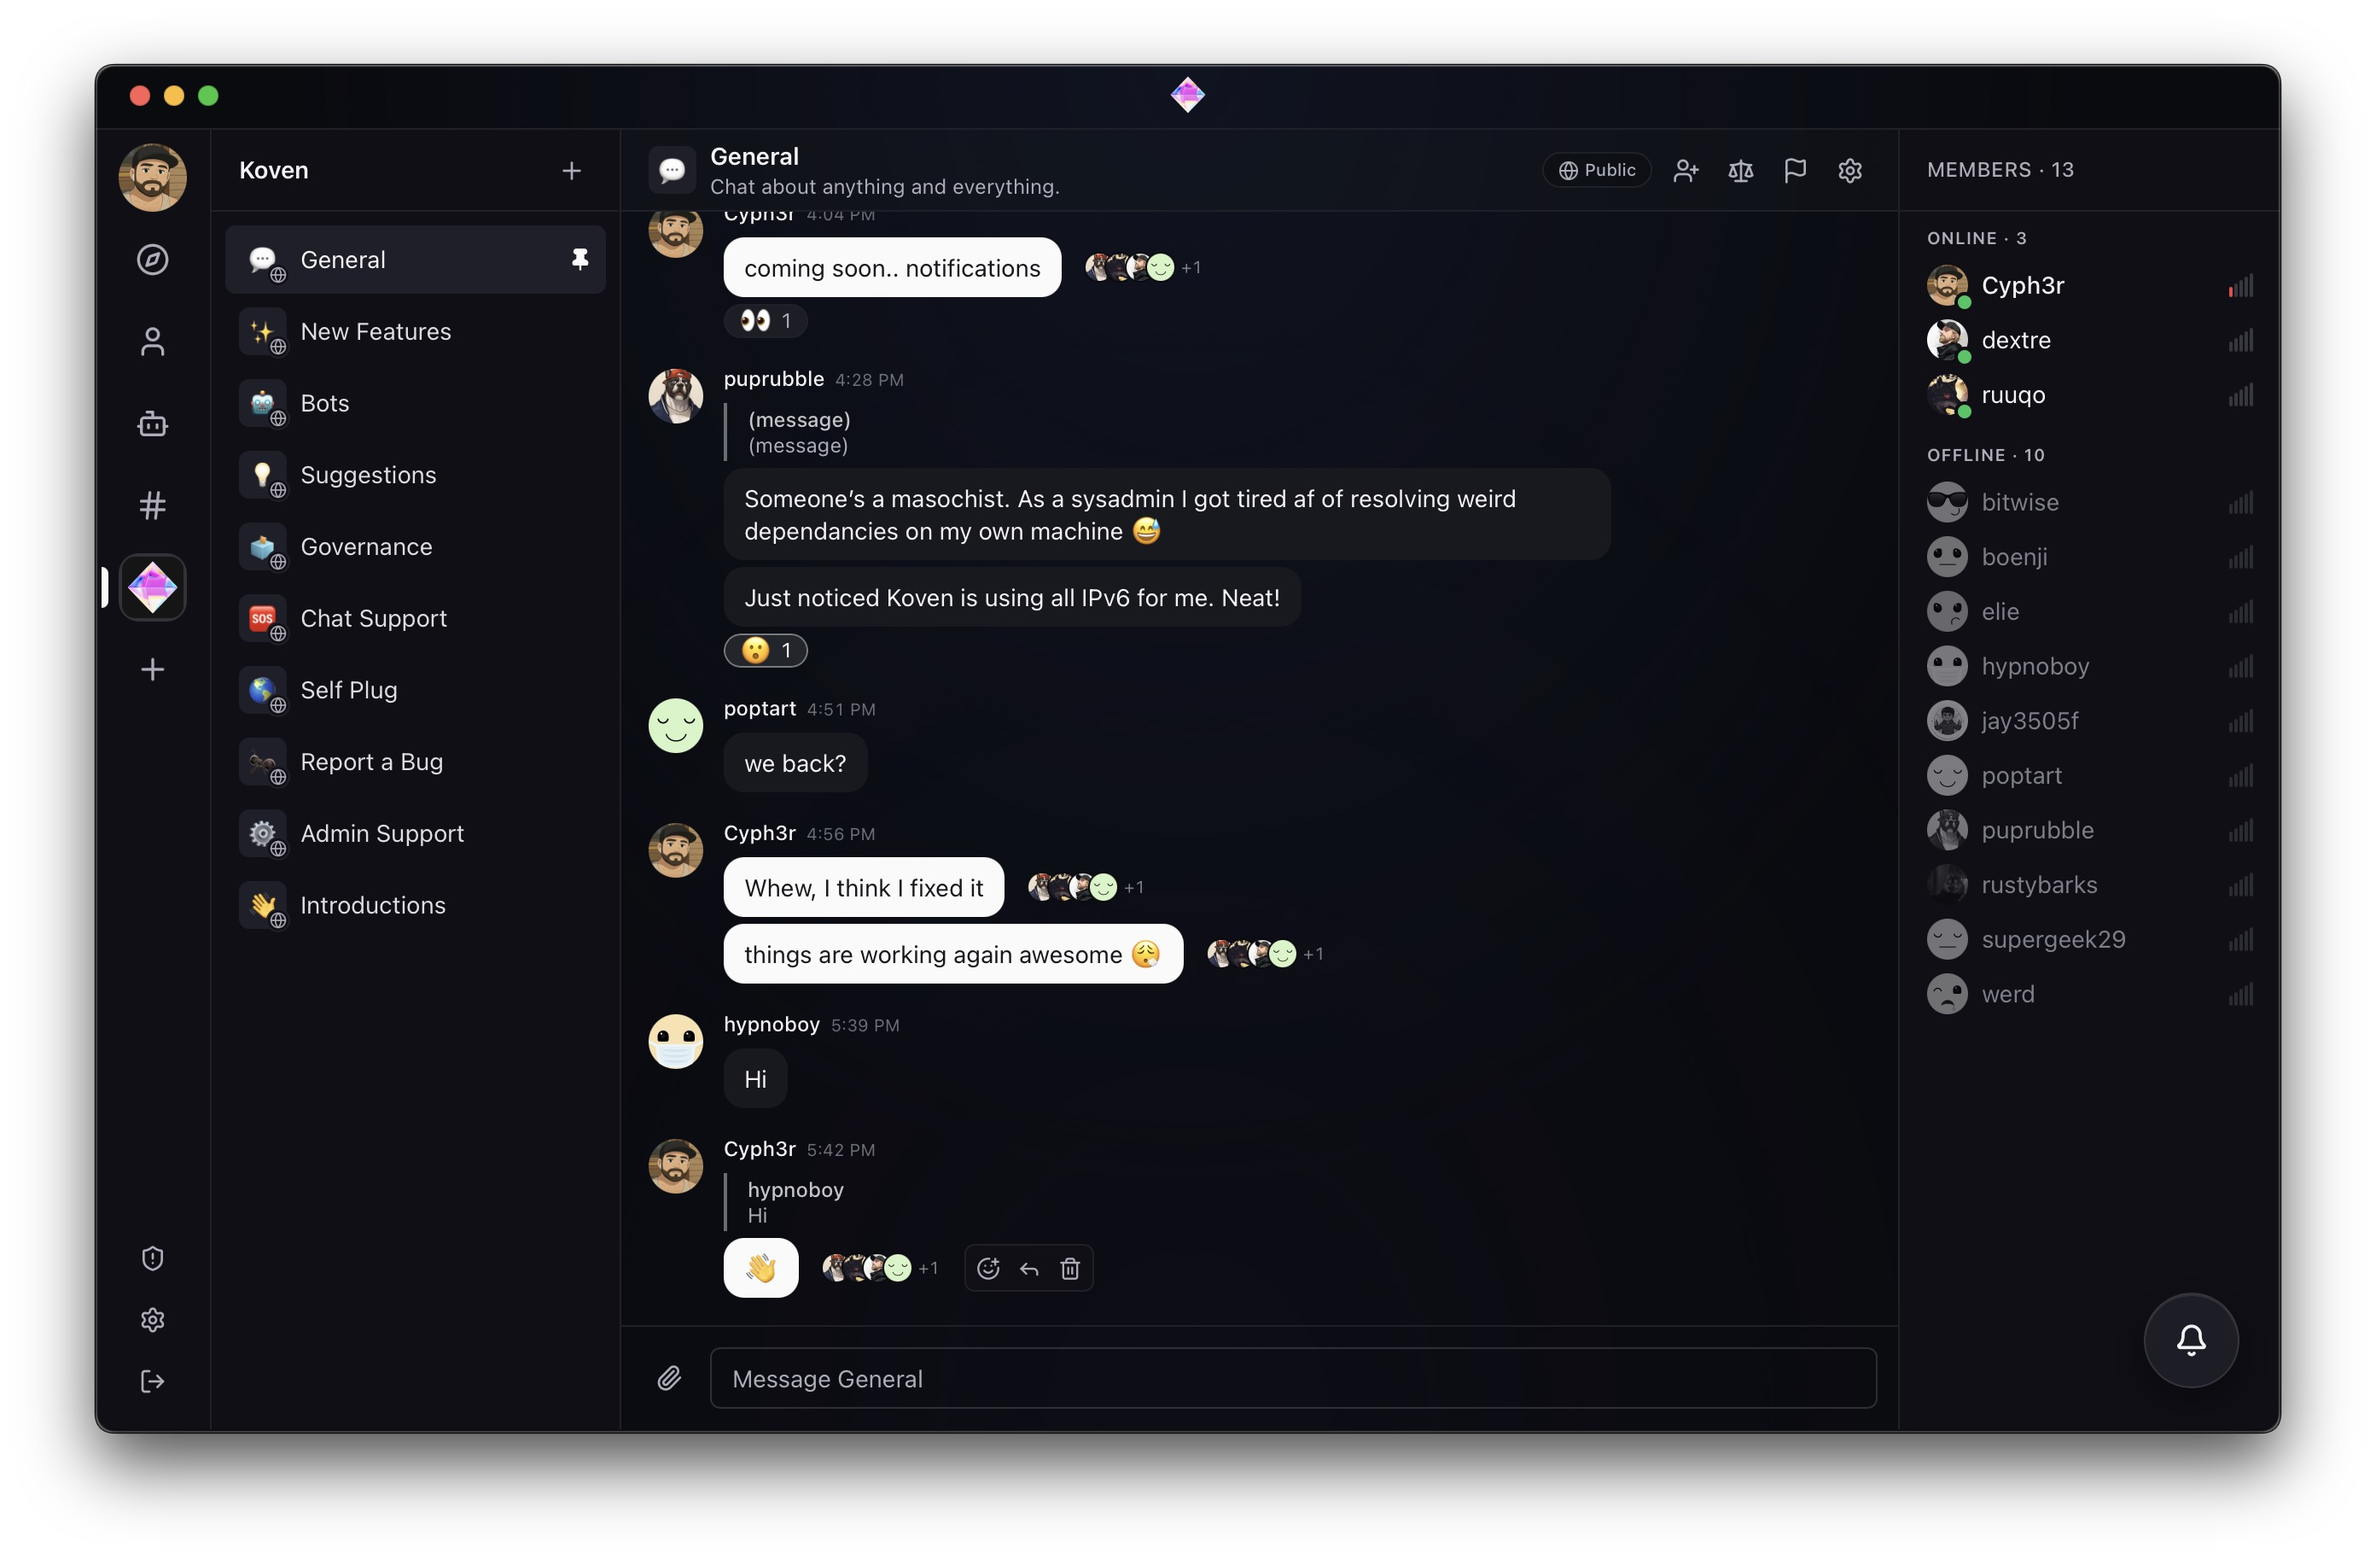
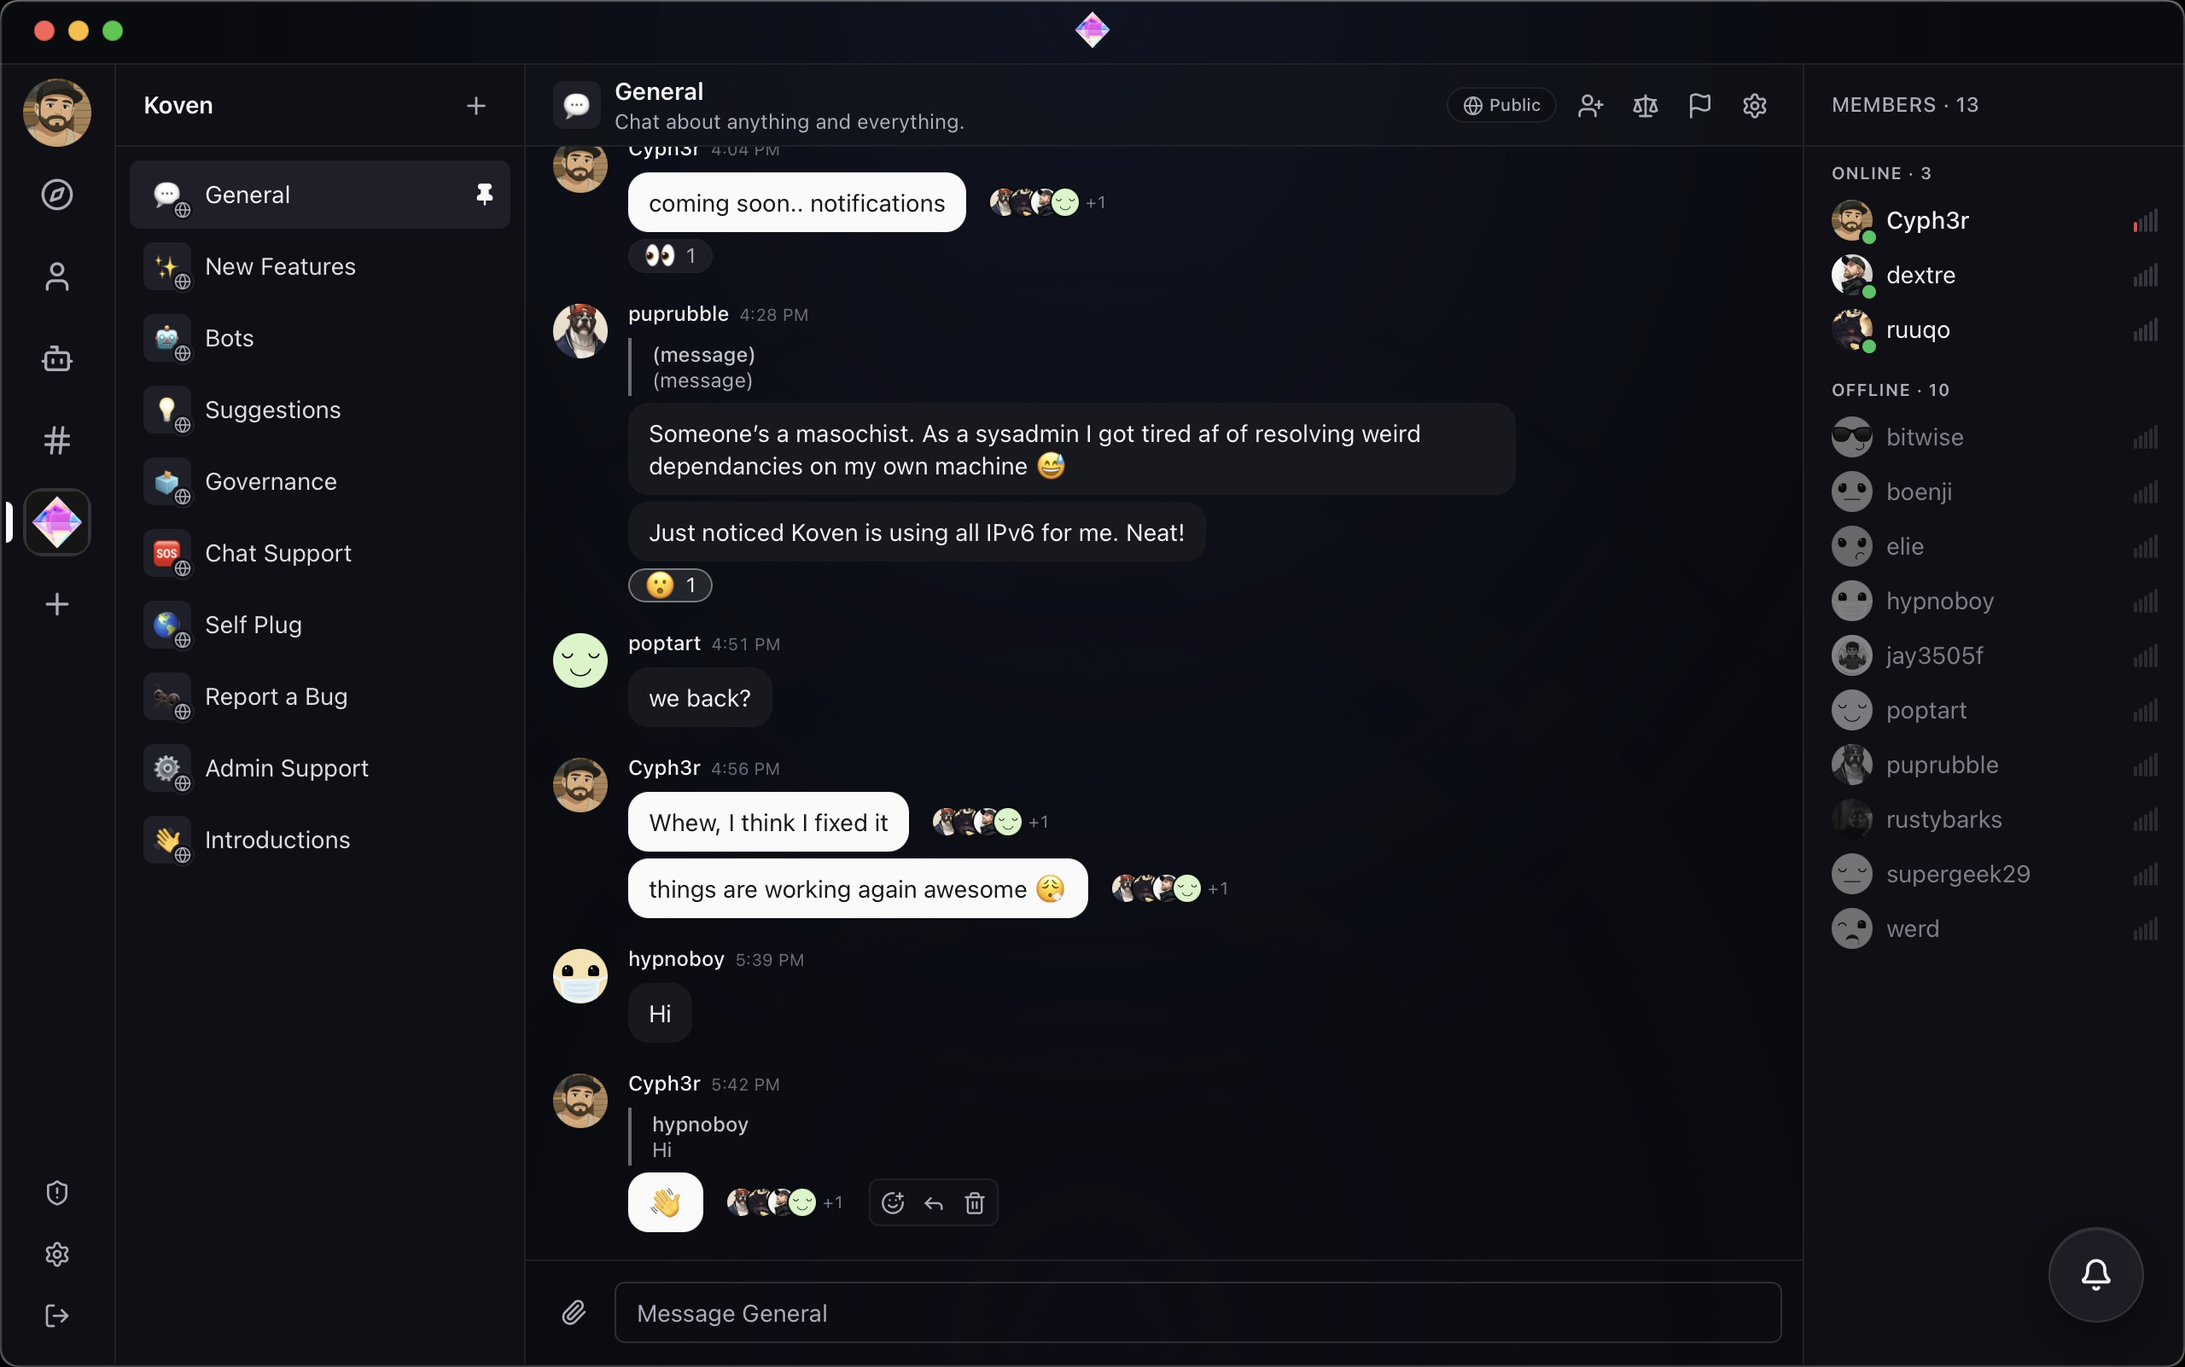
Admin debug endpoint to test the stored Giphy API key
GET /api/instance/giphy-test (admin only) hits Giphy's trending
endpoint with the stored key, returns the upstream status + body +
masked key preview + length so we can debug 401s without grepping
engine logs.

Changed region(s): [[0.0, 0.0, 1.0, 1.0]]

diff --git a/engine/src/server.ts b/engine/src/server.ts
@@ -2234,6 +2234,40 @@ export function startServer(): void {
 				return handleAdminImageUpload(req, "logo_url");
 			}
 
+			// Admin-only debug: test the stored Giphy key by hitting
+			// trending and returning the upstream status + body + the
+			// URL it sent (with the api_key masked).  Lets the admin
+			// see exactly what Giphy says without grepping engine logs.
+			if (req.method === "GET" && path === "/api/instance/giphy-test") {
+				const auth = await requireAdmin(req);
+				if (auth instanceof Response) return auth;
+				const apiKey = readInstanceConfig()["giphy_api_key"]?.trim();
+				if (!apiKey) {
+					return json({ ok: false, error: "no_key_configured" });
+				}
+				const upstream = new URL("https://api.giphy.com/v1/gifs/trending");
+				upstream.searchParams.set("api_key", apiKey);
+				upstream.searchParams.set("limit", "1");
+				const masked = `${apiKey.slice(0, 4)}…${apiKey.slice(-4)} (length=${apiKey.length})`;
+				try {
+					const r = await fetch(upstream);
+					const body = await r.text();
+					return json({
+						ok: r.ok,
+						status: r.status,
+						key_preview: masked,
+						url: upstream.toString().replace(apiKey, "***"),
+						upstream_body: body.slice(0, 1000),
+					});
+				} catch (err) {
+					return json({
+						ok: false,
+						key_preview: masked,
+						error: err instanceof Error ? err.message : String(err),
+					});
+				}
+			}
+
 			// Admin-only: report which integrations are configured (by
 			// presence of their credential, not its value).  The value
 			// itself is never returned over the wire; the admin form

diff --git a/marketing/index.html b/marketing/index.html
@@ -802,7 +802,7 @@
   <section style="padding-top: 0;">
     <div class="container">
       <div class="app-shot-wrap fade-up">
-        <img class="app-shot" src="assets/koven-app.jpg" alt="Koven web app showing channel list, governance discussion, and members panel" loading="lazy" width="1920" height="1257" />
+        <img class="app-shot" src="assets/koven-app.png" alt="Koven web app showing channel list, governance discussion, and members panel" loading="lazy" width="2784" height="1826" />
       </div>
       <div class="section-head fade-up" id="features">
         <div class="eyebrow">What's different</div>
